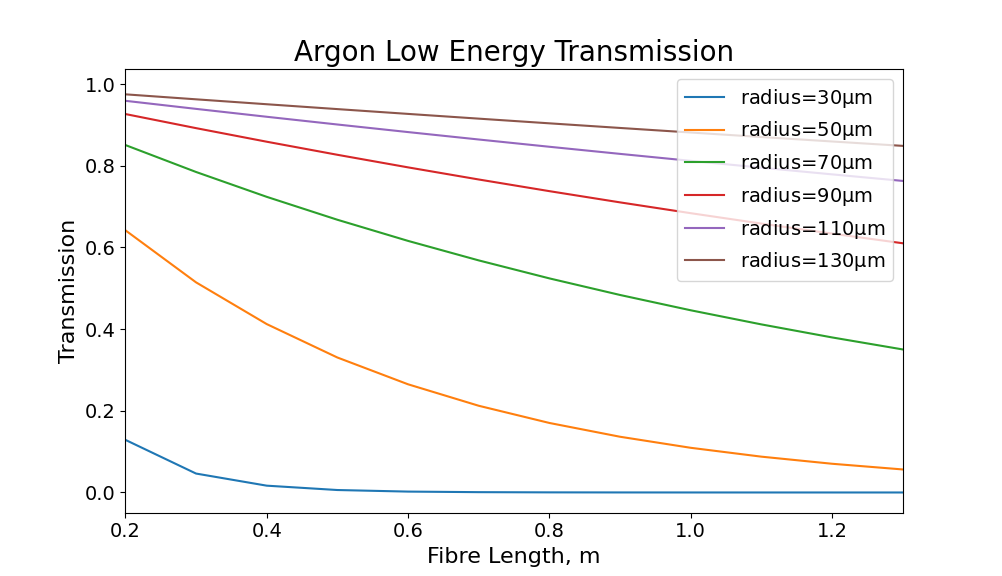
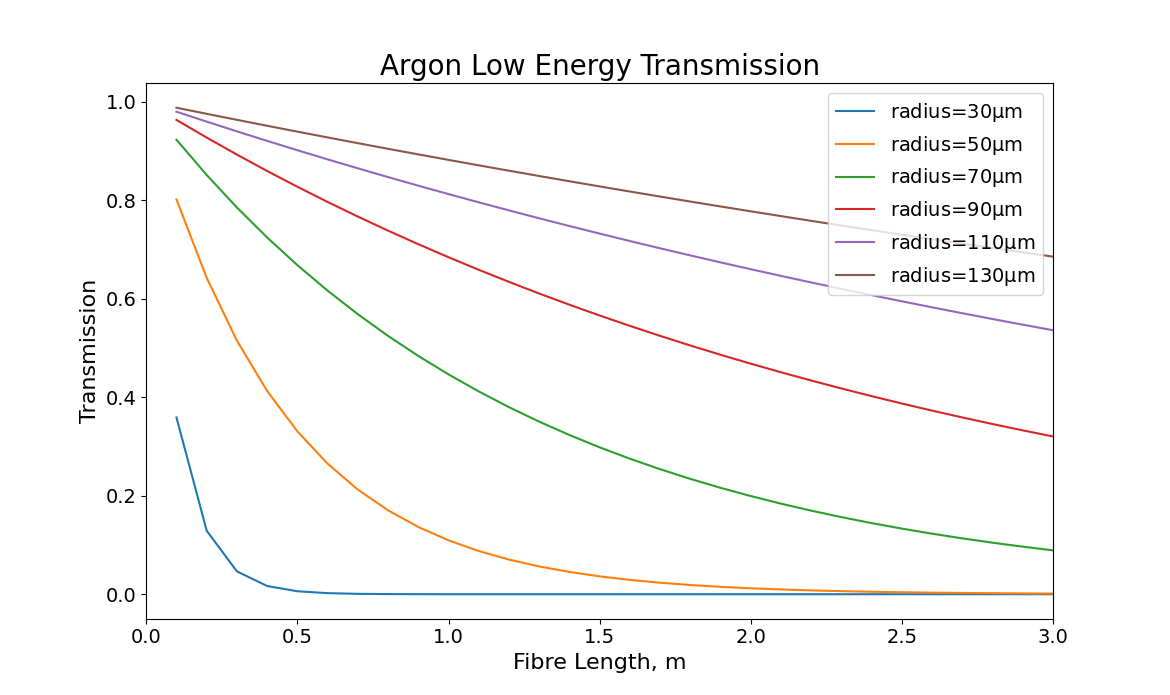
updated grazing plot

diff --git a/HCF sim/Python/experiments/simulations/transmission_energies/grazing_reflection/Argon_plotting.py b/HCF sim/Python/experiments/simulations/transmission_energies/grazing_reflection/Argon_plotting.py
@@ -70,7 +70,7 @@ for i in range(len(sims)):
 plt.legend(fontsize=14,loc="upper right")
 plt.xticks(fontsize=14)
 plt.yticks(fontsize=14)
-ax1.set_xlim(0.2,1.3)
+ax1.set_xlim(0,3)
 ax1.set_title("Argon Low Energy Transmission",fontsize=20)
 ax1.set_xlabel("Fibre Length, m",fontsize=16)
 ax1.set_ylabel("Transmission",fontsize=16)
